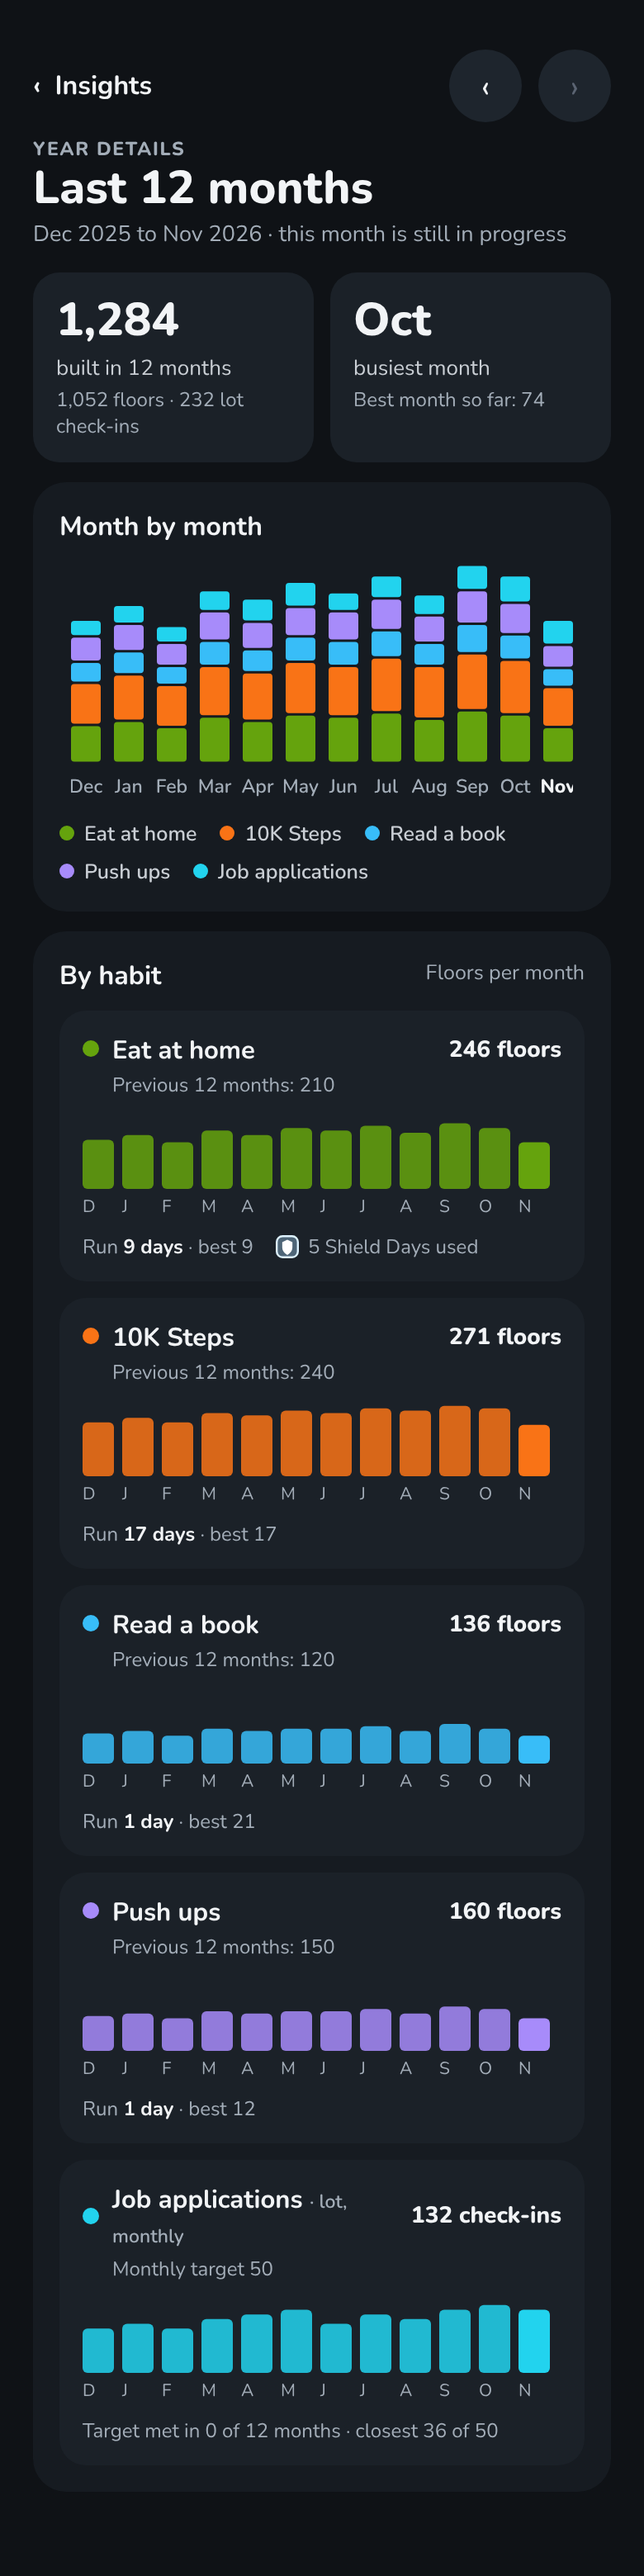
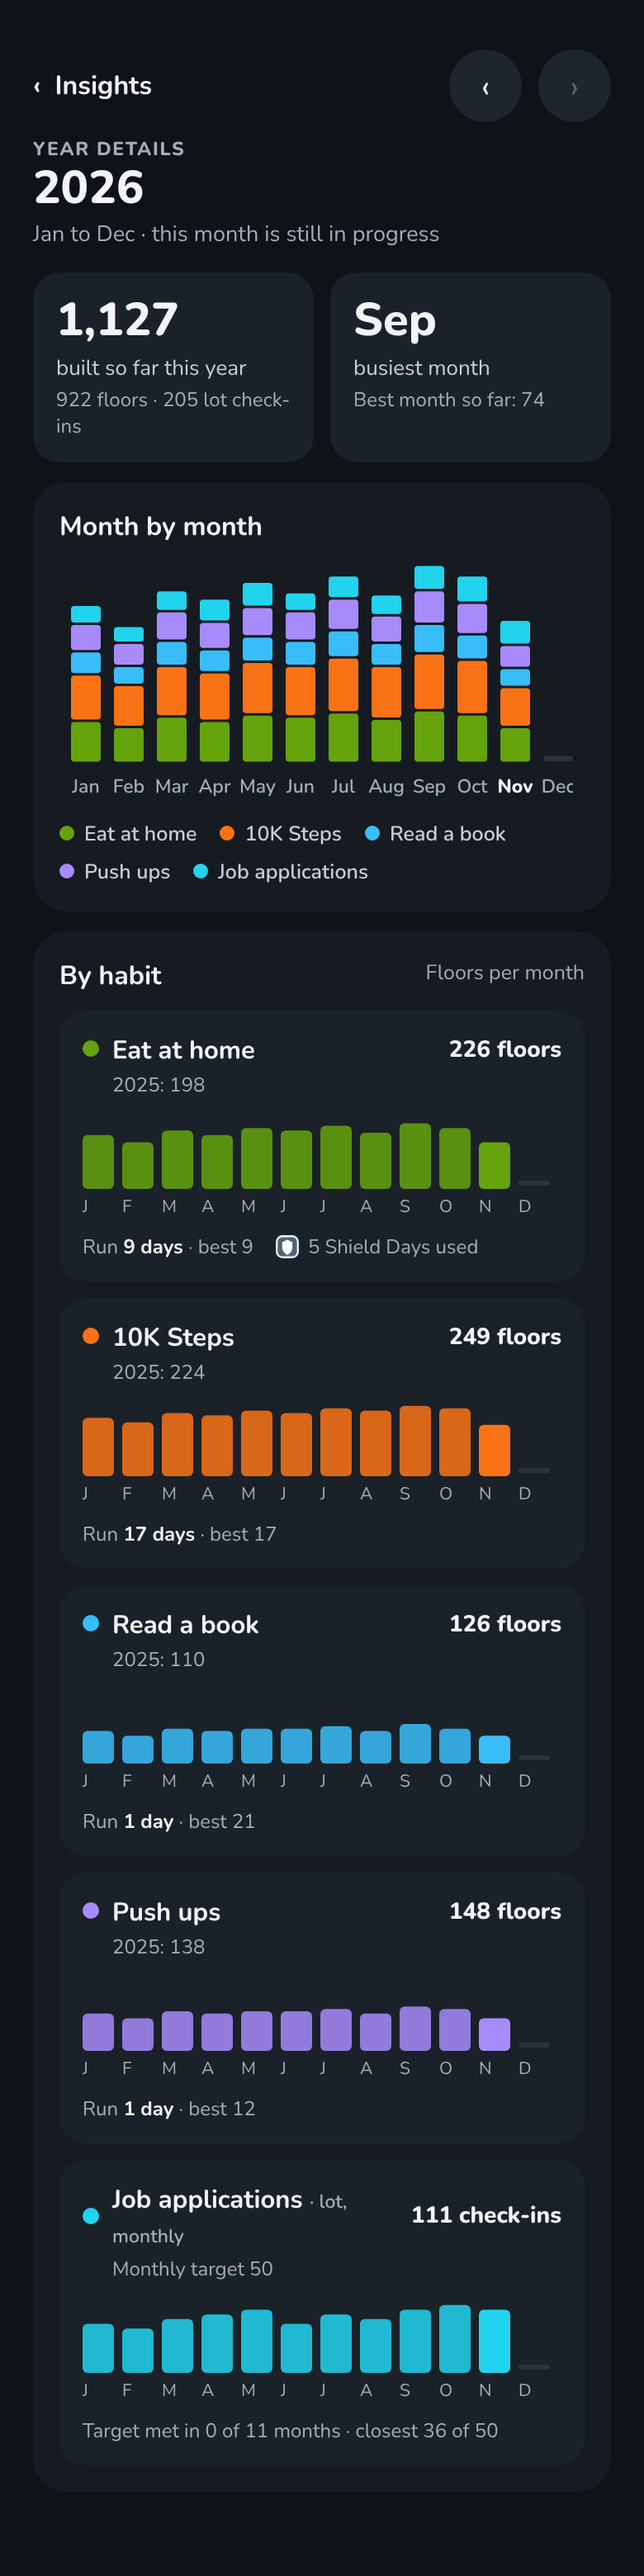
Design: board 43 without names, board 33 as a calendar year, approve 34-42
Claude-Session: https://claude.ai/code/session_01UvWD32uMFJU1E2B9jDYiLg

diff --git a/design/skyline/source/ins.js b/design/skyline/source/ins.js
@@ -8,13 +8,13 @@ const OPEN=(w,h)=>`<svg width="${w}" height="${h}"><rect x=".6" y=".6" width="${
 const FUT=(w,h)=>`<svg width="${w}" height="${h}"><rect x=".6" y=".6" width="${w-1.2}" height="${h-1.2}" rx="${Math.min(w,h)*.25}" fill="none" stroke="#2F3944" stroke-dasharray="3 3"/></svg>`;
 const TODAY=(w,h)=>`<svg width="${w}" height="${h}"><rect x=".9" y=".9" width="${w-1.8}" height="${h-1.8}" rx="${Math.min(w,h)*.25}" fill="none" stroke="#F2C14E" stroke-width="1.5" stroke-dasharray="4 3"/></svg>`;
 const BLD=(w,h,c)=>`<svg width="${w}" height="${h}"><rect width="${w}" height="${h}" rx="${Math.min(w,h)*.25}" fill="${c}"/></svg>`;
-function bars(cols,labels,{h=170,bw=30,gap=14,hiLast=true,max}){ // cols: arrays of 5 values (stack bottom->top by HAB order) ; null=future
+function bars(cols,labels,{h=170,bw=30,gap=14,hiLast=true,max,cur}){const CUR=cur==null?cols.length-1:cur; // cols: arrays of 5 values (stack bottom->top by HAB order) ; null=future
   const mx=max||Math.max(...cols.map(c=>c?c.reduce((a,b)=>a+b,0):0));
   const W=cols.length*(bw+gap)-gap;let out='';
   cols.forEach((c,i)=>{const x=i*(bw+gap);
     if(!c){out+=bw<12?``:`<rect x="${x}" y="${h-4}" width="${bw}" height="3" rx="1.5" fill="#2A333D"/>`;}
     else{let y=h;c.forEach((v,k)=>{if(!v)return;const sh=v/mx*h;out+=`<rect x="${x}" y="${y-sh+.75}" width="${bw}" height="${Math.max(sh-1.5,1)}" rx="2" fill="${HAB[k].c}" ${hiLast&&i!==cols.length-1&&false?'':''}/>`;y-=sh;});}
-    out+=`<text x="${x+bw/2}" y="${h+18}" text-anchor="middle" font-size="11.5" font-family="Nunito" font-weight="${i===cols.length-1?800:600}" fill="${i===cols.length-1?'#F2F4F6':'#A3ADB8'}">${labels[i]}</text>`;});
+    out+=`<text x="${x+bw/2}" y="${h+18}" text-anchor="middle" font-size="11.5" font-family="Nunito" font-weight="${i===CUR?800:600}" fill="${i===CUR?'#F2F4F6':'#A3ADB8'}">${labels[i]}</text>`;});
   return `<svg width="${W}" height="${h+24}" style="display:block;margin:0 auto">${out}</svg>`;
 }
 const sum=a=>a.reduce((x,y)=>x+y,0);
@@ -101,16 +101,17 @@ if(S==='det-month'){
    habitCard(4,['11 check-ins','Monthly target 50'],`<div style="height:10px;border-radius:5px;background:#232b34;overflow:hidden"><div style="width:22%;height:100%;background:${HAB[4].c}"></div></div>`,`<span>11 of 50 so far · 39 to go</span>`))}`;
 }
 if(S==='det-year'){
-  const ml=['Dec','Jan','Feb','Mar','Apr','May','Jun','Jul','Aug','Sep','Oct','Nov'];
-  const ym=[[18,20,10,12,8],[20,22,11,13,9],[17,20,9,11,8],[22,24,12,14,10],[20,23,11,13,11],[23,25,12,14,12],[22,24,12,14,9],[24,26,13,15,11],[21,25,11,13,10],[25,27,14,16,12],[23,26,12,15,13],[17,19,9,11,12]];
-  const mini=(vals,i)=>`<svg width="288" height="46" style="display:block">${vals.map((v,k)=>`<rect x="${k*24}" y="${46-v/28*40-4}" width="19" height="${v/28*40+4}" rx="3" fill="${HAB[i].c}" opacity="${k===11?1:.85}"/>`).join('')}</svg><div style="display:flex;justify-content:space-between;font-size:10.5px;color:#A3ADB8;width:288px;margin-top:3px">${ml.map(x=>`<span style="width:24px">${x[0]}</span>`).join('')}</div>`;
-  el.innerHTML=pageHead('year','Last 12 months','Dec 2025 to Nov 2026 · this month is still in progress')+`
-  <div style="display:flex;gap:10px;margin-top:14px">${tile('1,284','built in 12 months','1,052 floors · 232 lot check-ins')}${tile('Oct','busiest month','Best month so far: 74')}</div>
-  ${card('<b style="font-size:16px">Month by month</b>',`<div style="margin-top:12px">${bars(ym,ml,{h:120,bw:18,gap:8})}</div>${legend()}`)}
+  const ml=['Jan','Feb','Mar','Apr','May','Jun','Jul','Aug','Sep','Oct','Nov','Dec'];
+  const ym=[[20,22,11,13,9],[17,20,9,11,8],[22,24,12,14,10],[20,23,11,13,11],[23,25,12,14,12],[22,24,12,14,9],[24,26,13,15,11],[21,25,11,13,10],[25,27,14,16,12],[23,26,12,15,13],[17,19,9,11,12],null];
+  const col=(i)=>ym.map(r=>r?r[i]:null);
+  const mini=(vals,i)=>`<svg width="288" height="46" style="display:block">${vals.map((v,k)=>v==null?`<rect x="${k*24}" y="41" width="19" height="3" rx="1.5" fill="#2A333D"/>`:`<rect x="${k*24}" y="${46-v/28*40-4}" width="19" height="${v/28*40+4}" rx="3" fill="${HAB[i].c}" opacity="${k===10?1:.85}"/>`).join('')}</svg><div style="display:flex;justify-content:space-between;font-size:10.5px;color:#A3ADB8;width:288px;margin-top:3px">${ml.map(x=>`<span style="width:24px">${x[0]}</span>`).join('')}</div>`;
+  el.innerHTML=pageHead('year','2026','Jan to Dec · this month is still in progress')+`
+  <div style="display:flex;gap:10px;margin-top:14px">${tile('1,127','built so far this year','922 floors · 205 lot check-ins')}${tile('Sep','busiest month','Best month so far: 74')}</div>
+  ${card('<b style="font-size:16px">Month by month</b>',`<div style="margin-top:12px">${bars(ym,ml,{h:120,bw:18,gap:8,cur:10})}</div>${legend()}`)}
   ${card('<b style="font-size:16px">By habit</b><span style="float:right;font-size:12.5px;color:#A3ADB8">Floors per month</span>',
-   habitCard(0,['246 floors','Previous 12 months: 210'],mini(ym.map(r=>r[0]),0),runTxt('9 days','9')+shieldTxt(5))+
-   habitCard(1,['271 floors','Previous 12 months: 240'],mini(ym.map(r=>r[1]),1),runTxt('17 days','17'))+
-   habitCard(2,['136 floors','Previous 12 months: 120'],mini(ym.map(r=>r[2]),2),runTxt('1 day','21'))+
-   habitCard(3,['160 floors','Previous 12 months: 150'],mini(ym.map(r=>r[3]),3),runTxt('1 day','12'))+
-   habitCard(4,['132 check-ins','Monthly target 50'],mini(ym.map(r=>r[4]*2),4),`<span>Target met in 0 of 12 months · closest 36 of 50</span>`))}`;
+   habitCard(0,['226 floors','2025: 198'],mini(col(0),0),runTxt('9 days','9')+shieldTxt(5))+
+   habitCard(1,['249 floors','2025: 224'],mini(col(1),1),runTxt('17 days','17'))+
+   habitCard(2,['126 floors','2025: 110'],mini(col(2),2),runTxt('1 day','21'))+
+   habitCard(3,['148 floors','2025: 138'],mini(col(3),3),runTxt('1 day','12'))+
+   habitCard(4,['111 check-ins','Monthly target 50'],mini(col(4).map(v=>v==null?null:v*2),4),`<span>Target met in 0 of 11 months · closest 36 of 50</span>`))}`;
 }

diff --git a/design/skyline/source/new.js b/design/skyline/source/new.js
@@ -95,7 +95,7 @@ if(S2==='co-empty'){
 const friendHead=(name,user,pub)=>`<div style="display:flex;align-items:center;justify-content:space-between;padding:30px 20px 6px"><div style="width:44px;height:44px;border-radius:22px;background:#1E252D;display:flex;align-items:center;justify-content:center;font-size:20px">‹</div><div style="font-size:17px;font-weight:800">${name}</div><div style="width:44px"></div></div><div style="padding:0 20px;display:flex;gap:14px;align-items:center"><div style="width:64px;height:64px;border-radius:32px;background:#38BDF8;color:#0b1b24;font-weight:800;font-size:26px;display:flex;align-items:center;justify-content:center">${name[0]}</div><div><div style="font-size:22px;font-weight:800">${name}</div><div style="color:#A3ADB8;font-size:13.5px">@${user}</div><div style="display:inline-block;margin-top:4px;font-size:12px;font-weight:800;padding:3px 10px;border-radius:12px;background:${pub?'#17301f':'#1E252D'};color:${pub?'#7BD88F':'#A3ADB8'}">${pub?'Public profile':'Private profile'}</div></div></div>`;
 if(S2==='fs-public'){
   const T=[['Run','#FF8A5C',9,0],['Read','#38BDF8',14,0],['Meditate','#A78BFA',6,0],['Water','#65A30D',20,0],['Tidy','#8A93A0',4,0]];
-  const sc=T.map(([n,c,f,_],i)=>{const x=14+i*72;const fl=[...rep('dark',Math.max(0,f-5)),...rep('lit',Math.min(5,f))];return tw(c,{x,base:262,w:42,fh:7.4,dx:14,dy:8,floors:fl,windows:2,today:false})+`<text x="${x+28}" y="284" text-anchor="middle" font-size="11.5" font-weight="700" fill="#F2F4F6" font-family="Nunito">${n}</text>`}).join('');
+  const sc=T.map(([n,c,f,_],i)=>{const x=14+i*72;const fl=[...rep('dark',Math.max(0,f-5)),...rep('lit',Math.min(5,f))];return tw(c,{x,base:262,w:42,fh:7.4,dx:14,dy:8,floors:fl,windows:2,today:false})+''}).join('');
   R.innerHTML=shell(friendHead('Maya','maya',true)+`<svg width="390" height="300" style="position:absolute;top:176px;left:0"><defs><linearGradient id="fg" x1="0" y1="0" x2="0" y2="1"><stop offset="0" stop-color="#0B1030"/><stop offset="1" stop-color="#232a5a"/></linearGradient></defs><rect width="390" height="262" fill="url(#fg)"/>${star(30,240,11)}<rect y="262" width="390" height="38" fill="#0F1216"/>${sc}</svg>
    <div style="position:absolute;top:488px;left:20px;right:20px"><div style="font-weight:800;font-size:16px;margin-bottom:8px">Overview</div>
    <div style="display:grid;grid-template-columns:1fr 1fr;gap:8px">${[['9d','Best current run'],['21d','Longest run'],['5','Active habits'],['84%','Consistency, last 30 days']].map(([v,l])=>`<div style="background:#161B21;border-radius:14px;padding:10px 14px"><div style="font-size:22px;font-weight:800">${v}</div><div style="font-size:12.5px;color:#A3ADB8">${l}</div></div>`).join('')}</div>

diff --git a/design/skyline/README.md b/design/skyline/README.md
@@ -24,7 +24,7 @@ This is the only folder of Skyline mockups. The old `concept _screens/` folder w
 | 13 | `13-newshared.png` | Build together form | 4 | not re-checked |
 | 14 | `14-newchallenge.png` | Raise a landmark form | 4 | not re-checked |
 | 15 | `15-profile.png` | Profile | 7 | interaction only (the "Your skyline so far" towers use old floor art) |
-| 16 | `16-weekly-monthly.png` | Skyline, Weekly and monthly view (per-day heatmap lots) | 2b | current (was `concept _screens/2-weekly-monthly.png`) |
+| 16 | `16-weekly-monthly.png` | Skyline, Weekly and monthly view (per-day heatmap lots) | 2b | current (was `concept _screens/2-weekly-monthly.png`) | Header updated 2026-11-16 with the retired-towers icon; the subtitle stays on one line.
 | 17 | `17-lot-sheet-weekly.png` | Lot sheet, weekly | 2b | current (was `3-lot-sheet-weekly.png`) |
 | 18 | `18-add-for-another-day.png` | Add for another day | 2b / 3 | current (was `4-add-for-another-day.png`) |
 | 19 | `19-lot-sheet-monthly.png` | Lot sheet, monthly | 2b | current (was `5-lot-sheet-monthly.png`) |
@@ -38,17 +38,17 @@ This is the only folder of Skyline mockups. The old `concept _screens/` folder w
 | 27 | `27-lot-sheet-day-callout.png` | Lot sheet (monthly), per-day chart callout | 2b | **APPROVED by the owner 2026-11-14.** Tapping a day in the grid or the chart shows the callout; counts also stay inside the grid squares. One callout above the selected day instead of a label on every bar. |
 | 28–30 | `28-insights-weeks.png`, `29-insights-months.png`, `30-insights-years.png` | Insights main page, Weeks / Months / Years tabs | 5 | **APPROVED by the owner 2026-11-14.** Replaces the Floors built card of board 06. Tabs read Weeks / Months / Years. There is no subtitle under the title (the owner found it misleading). The "This week / This month / This year" arrows page back through earlier windows, so all history is reachable. Runs is all-time and Shield use covers the last 12 weeks; neither is limited by the chart window. Floors built counts weekly and monthly habits too (their check-ins), tagged "Towers and lots", and the line under the headline splits floors and lot check-ins. Tapping a bar opens the details page. Runs and Shield use are unchanged. |
 | 31–33 | `31-insights-week-details.png`, `32-insights-month-details.png`, `33-insights-year-details.png` | Period details (week, month, year) | 5 | **APPROVED by the owner 2026-11-14.** One page for everything about a period: two summary tiles, a day-by-day (month-by-month for years) chart, then a card per habit with its own strip (7 days, a 7-column month grid, or 12 months), floors against the same point last period, current and best run, and Shield Days used. Weekly/monthly habits show a target bar. Previous/next arrows step between periods. Uses the glass Shield Day and see-through open floor. |
-| 34 | `34-firstrun-empty-skyline.png` | First run: empty skyline | 7 | **PROPOSAL, awaiting owner approval (2026-11-16).** SKYLINE §5 step 3. Three empty lots with plus signs, "Lay a foundation" button. The retired-towers icon is not shown here because there is nothing retired yet (to be confirmed). The wording "Your skyline starts here" and "Lay your first foundation" is mine. |
-| 35 | `35-firstrun-templates.png` | First run: Lay a foundation, templates | 7 | **PROPOSAL.** The 6 templates from TemplateHabitsPicker (Drink water, Read 10 minutes, Meditate, Go for a walk, Sleep by 11pm, Tidy up) with their category icon colours, then Custom last (SKYLINE §5 step 3). Subtitle wording is mine. |
-| 36 | `36-firstrun-first-hold.png` | First run: first hold | 7 | **PROPOSAL.** SKYLINE §5 step 4: a one-line hint and the ring filling. Mentions Tap to build in Profile, Accessibility. Wording is mine. |
-| 37 | `37-firstrun-notification-explainer.png` | First run: notification explainer | 7 | **PROPOSAL.** SKYLINE §5 step 5, shown after the first floor, before the system prompt. All copy is mine; no existing explainer text was found. |
-| 38 | `38-firstrun-location-explainer.png` | First run: location explainer | 7 | **PROPOSAL.** SKYLINE §5 step 6. Uses the existing LocationPermissionModal copy word for word, restyled. |
-| 39 | `39-retired-towers-list.png` | Retired towers list | 3 | **PROPOSAL, awaiting owner approval (2026-11-16).** Restyle of the existing screen: icon tile, name, Restore, delete. The explanatory line under the list is mine. The developer confirms the list already opens from a header icon. |
-| 40 | `40-notification-center.png` | Notification center | 7 | **PROPOSAL.** Restyle of the existing center: close, "Notifications", mark-all-read, rows with a type icon, title, body, time and an unread dot. All sample titles and bodies are mine; the real ones come from the server. It already opens from a bell in the Community header (confirmed by the developer). |
-| 41 | `41-ask-habituate-chat.png` | Ask Habituate, conversation | 7 | **PROPOSAL.** Uses the existing strings: "Ask Habituate", "Ask about your routine...", "AI suggestions can be imperfect. You're in control.", "Nothing changes until you confirm.", "Confirm adjustment" / "Keep my goal". The question and answer text are sample copy, written non-causally. |
-| 42 | `42-ask-habituate-empty.png` | Ask Habituate, empty state with starter questions | 7 | **PROPOSAL.** Starter questions are generated from the user's habits in the app; the three shown and the heading text are my sample copy. |
-| 43 | `43-friend-skyline-public.png` | Friend skyline, public profile | 6 | **PROPOSAL, blocked on an owner decision.** Shows a public friend's towers with habit names. The developer found that the server deliberately does NOT expose per-habit data for public profiles, so this needs a rule change and a new endpoint. |
-| 44 | `44-friend-skyline-private.png` | Friend skyline, private profile | 6 | **PROPOSAL, blocked on the same decision.** Only the shared-habit towers you both belong to, joined by a skybridge, plus the existing "keeps their stats private" note. Needs floor and run data for shared towers, which the server does not return today. |
+| 34 | `34-firstrun-empty-skyline.png` | First run: empty skyline | 7 | **APPROVED by the owner 2026-11-16.** SKYLINE §5 step 3. Three empty lots with plus signs, "Lay a foundation" button. The retired-towers icon is not shown here because there is nothing retired yet (to be confirmed). The wording "Your skyline starts here" and "Lay your first foundation" is mine. |
+| 35 | `35-firstrun-templates.png` | First run: Lay a foundation, templates | 7 | **APPROVED by the owner 2026-11-16.** The 6 templates from TemplateHabitsPicker (Drink water, Read 10 minutes, Meditate, Go for a walk, Sleep by 11pm, Tidy up) with their category icon colours, then Custom last (SKYLINE §5 step 3). Subtitle wording is mine. |
+| 36 | `36-firstrun-first-hold.png` | First run: first hold | 7 | **APPROVED by the owner 2026-11-16.** SKYLINE §5 step 4: a one-line hint and the ring filling. Mentions Tap to build in Profile, Accessibility. Wording is mine. |
+| 37 | `37-firstrun-notification-explainer.png` | First run: notification explainer | 7 | **APPROVED by the owner 2026-11-16.** SKYLINE §5 step 5, shown after the first floor, before the system prompt. All copy is mine; no existing explainer text was found. |
+| 38 | `38-firstrun-location-explainer.png` | First run: location explainer | 7 | **APPROVED by the owner 2026-11-16.** SKYLINE §5 step 6. Uses the existing LocationPermissionModal copy word for word, restyled. |
+| 39 | `39-retired-towers-list.png` | Retired towers list | 3 | **APPROVED by the owner 2026-11-16.** Restyle of the existing screen: icon tile, name, Restore, delete. The explanatory line under the list is mine. The developer confirms the list already opens from a header icon. |
+| 40 | `40-notification-center.png` | Notification center | 7 | **APPROVED by the owner 2026-11-16.** Restyle of the existing center: close, "Notifications", mark-all-read, rows with a type icon, title, body, time and an unread dot. All sample titles and bodies are mine; the real ones come from the server. It already opens from a bell in the Community header (confirmed by the developer). |
+| 41 | `41-ask-habituate-chat.png` | Ask Habituate, conversation | 7 | **APPROVED by the owner 2026-11-16.** Uses the existing strings: "Ask Habituate", "Ask about your routine...", "AI suggestions can be imperfect. You're in control.", "Nothing changes until you confirm.", "Confirm adjustment" / "Keep my goal". The question and answer text are sample copy, written non-causally. |
+| 42 | `42-ask-habituate-empty.png` | Ask Habituate, empty state with starter questions | 7 | **APPROVED by the owner 2026-11-16.** Starter questions are generated from the user's habits in the app; the three shown and the heading text are my sample copy. |
+| 43 | `43-friend-skyline-public.png` | Friend skyline, public profile | 6 | **PROPOSAL, awaiting approval (revised 2026-11-16 per the owner).** Towers without habit names: heights and colours only, with the existing overview stats and shared habits below. Needs a new friendship-gated endpoint that returns tower heights and colours but no names. |
+| 44 | `44-friend-skyline-private.png` | Friend skyline, private profile | 6 | **PROPOSAL, awaiting approval.** Only the shared-habit towers you both belong to, joined by a skybridge, plus the existing "keeps their stats private" note. Needs floor and run data for shared towers, which the server does not return today. |
 
 `superseded/` keeps old versions and boards that were not chosen (01, 03, 06, 07, 22, 23, 25). Don't build from them.
 
